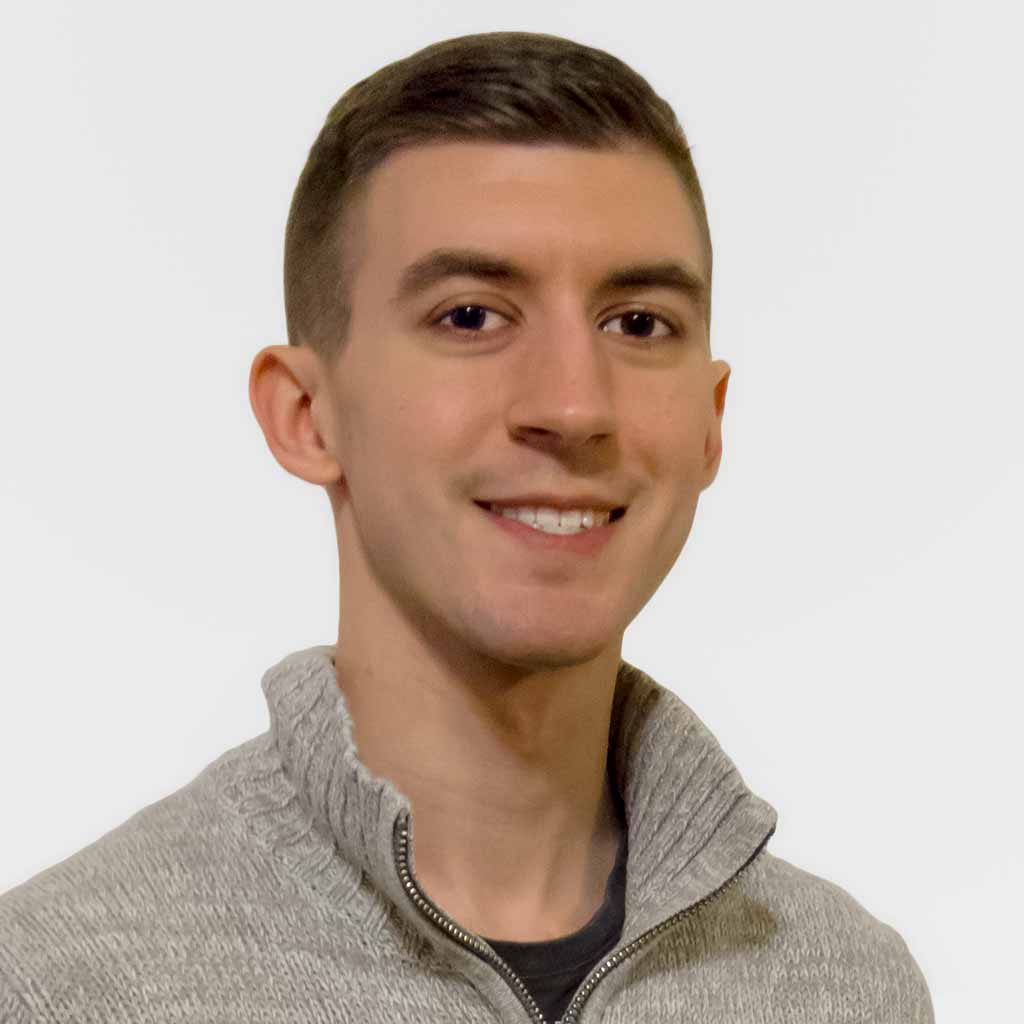
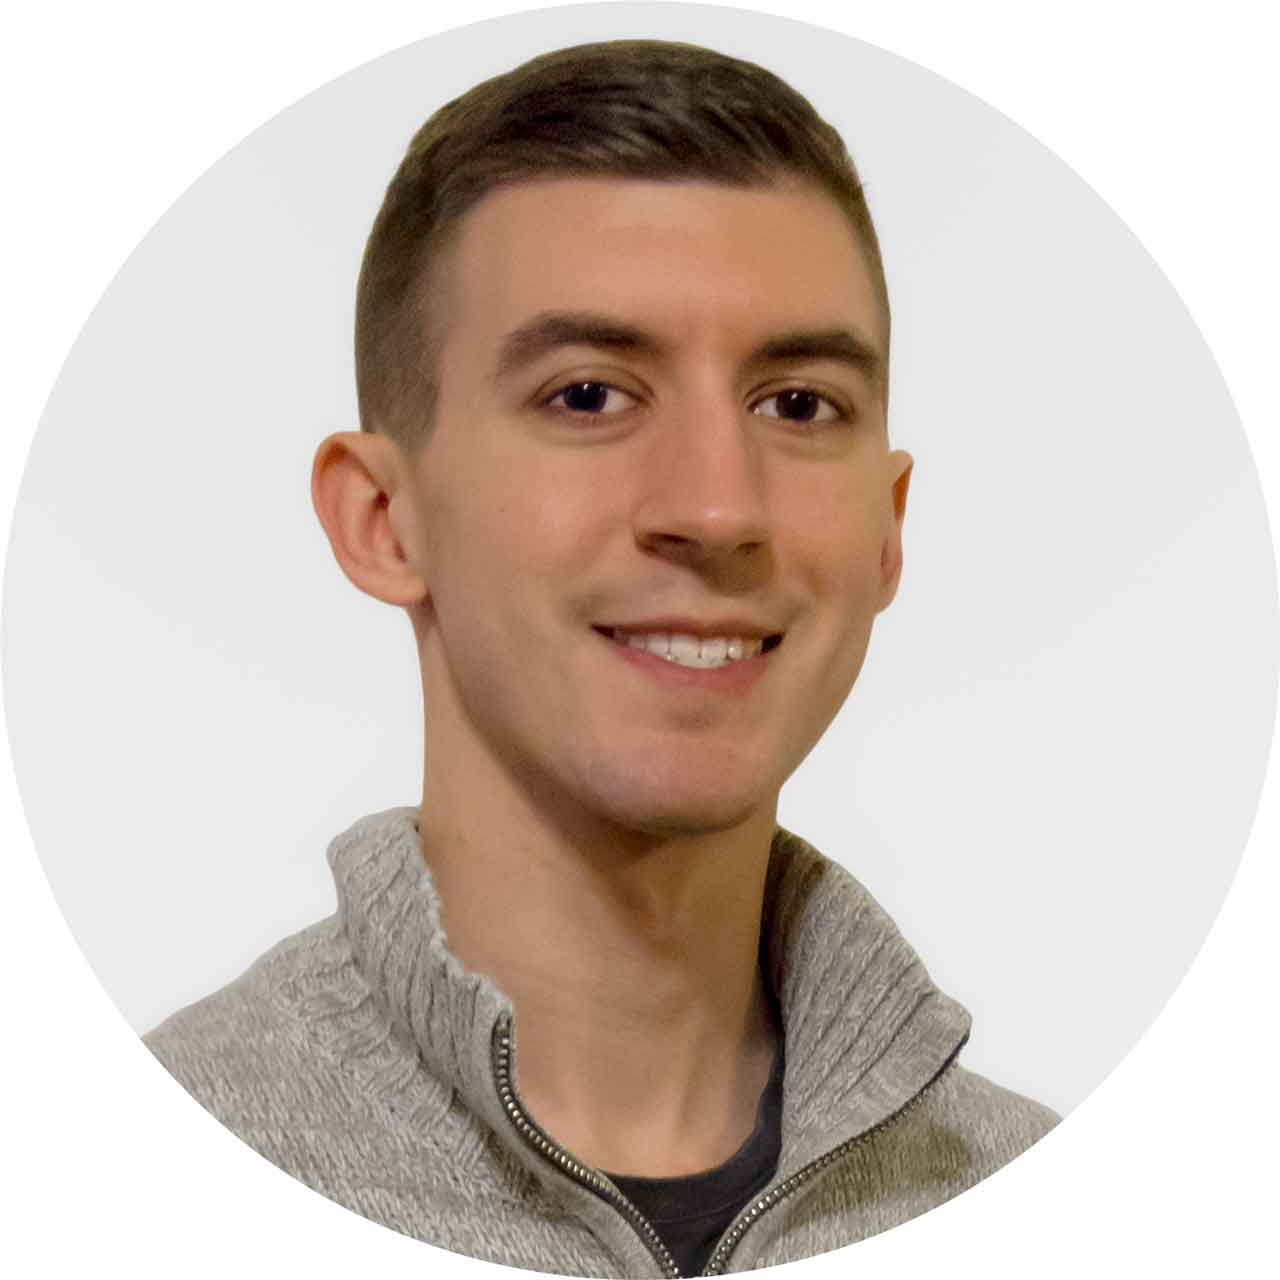
Changed image from clipping mask to raster mask, fixed some errors

Changed region(s): [[0.0, 0.8125, 0.4375, 1.0], [0.5625, 0.875, 0.9375, 1.0]]

diff --git a/index.html b/index.html
@@ -95,7 +95,7 @@
           semester. The result is Rock 'Em Soccer Robots, which we made from scratch
           in C and C++. The game runs in Windows using DirectX 9.
           <div class="video-wrapper">
-            <iframe src="http://www.youtube-nocookie.com/embed/cVsymOcM65o?rel=0" frameborder="0" allowfullscreen></iframe>
+            <iframe src="https://www.youtube.com/embed/cVsymOcM65o" frameborder="0" allowfullscreen></iframe>
           </div>
         </p>
 
@@ -109,14 +109,14 @@
           the game (we simply made desks fly around, trying to kill you), our
           efforts resulted in a surprisingly fun experience.
           <div class="video-wrapper">
-            <iframe src="http://www.youtube-nocookie.com/embed/aJiU85_dPzk?rel=0" frameborder="0" allowfullscreen></iframe>
+            <iframe src="https://www.youtube.com/embed/aJiU85_dPzk" frameborder="0" allowfullscreen></iframe>
           </div>
         </p>
       </article>
 
       <aside class="medium-4 small-12 columns">
         <hr class="show-for-small-only" />
-        <img class="circle-img" src="img/portrait.jpg" />
+        <img src="img/portrait.jpg" />
         <h2 class="show-for-small-only">About Me</h2>
         <p>You can contact me at <a href="mailto:jake@jakesinger.com">jake@jakesinger.com.</a></p>
         <p>Take a look at my <a href="files/resume-jake-singer.pdf">resume here.</a></p>
@@ -150,6 +150,7 @@
   </div>
 
   <!-- Assets -->
+  <script src="js/vendor/jquery.js"></script>
   <script src="js/foundation.min.js"></script>
   <script>
     $(document).foundation();

diff --git a/fonts/fonts.css b/fonts/fonts.css
@@ -40,12 +40,12 @@
 /* Encode Sans (Regular) */
 @font-face {
     font-family: 'EncodeSans-Regular';
-    src: url('EncodeSans-Regular-webfont.eot');
-    src: url('EncodeSans-Regular-webfont.eot?#iefix') format('embedded-opentype'),
-         url('EncodeSans-Regular-webfont.woff2') format('woff2'),
-         url('EncodeSans-Regular-webfont.woff') format('woff'),
-         url('EncodeSans-Regular-webfont.ttf') format('truetype'),
-         url('EncodeSans-Regular-webfont.svg#encode_sansregular') format('svg');
+    src: url('encode-sans/EncodeSans-Regular-webfont.eot');
+    src: url('encode-sans/EncodeSans-Regular-webfont.eot?#iefix') format('embedded-opentype'),
+         url('encode-sans/EncodeSans-Regular-webfont.woff2') format('woff2'),
+         url('encode-sans/EncodeSans-Regular-webfont.woff') format('woff'),
+         url('encode-sans/EncodeSans-Regular-webfont.ttf') format('truetype'),
+         url('encode-sans/EncodeSans-Regular-webfont.svg#encode_sansregular') format('svg');
     font-weight: normal;
     font-style: normal;
 }

diff --git a/css/style.css b/css/style.css
@@ -104,7 +104,6 @@ button,
     padding: 0;
     border: 0;
     overflow: hidden;
-    *zoom: 1;
 }
 
 .header-wrapper {
@@ -132,7 +131,6 @@ button,
     padding: 0;
     border: 0;
     overflow: hidden;
-    *zoom: 1;
 }
 
 #navigation-wrapper nav#navigation ul li {
@@ -190,13 +188,8 @@ button,
     }
 }
 
-.circle-img {
-    -webkit-clip-path: circle(49% at 50% 50%);
-    clip-path: circle(49% at 50% 50%);
-}
-
 aside img {
-    width: 233;
+    width: 233px;
     margin: 0 0 28px 0;
 }
 
@@ -229,7 +222,6 @@ aside img {
     padding: 0;
     border: 0;
     overflow: hidden;
-    *zoom: 1;
     width: 80%;
     margin: 0 10% 6em 10%;
 }
